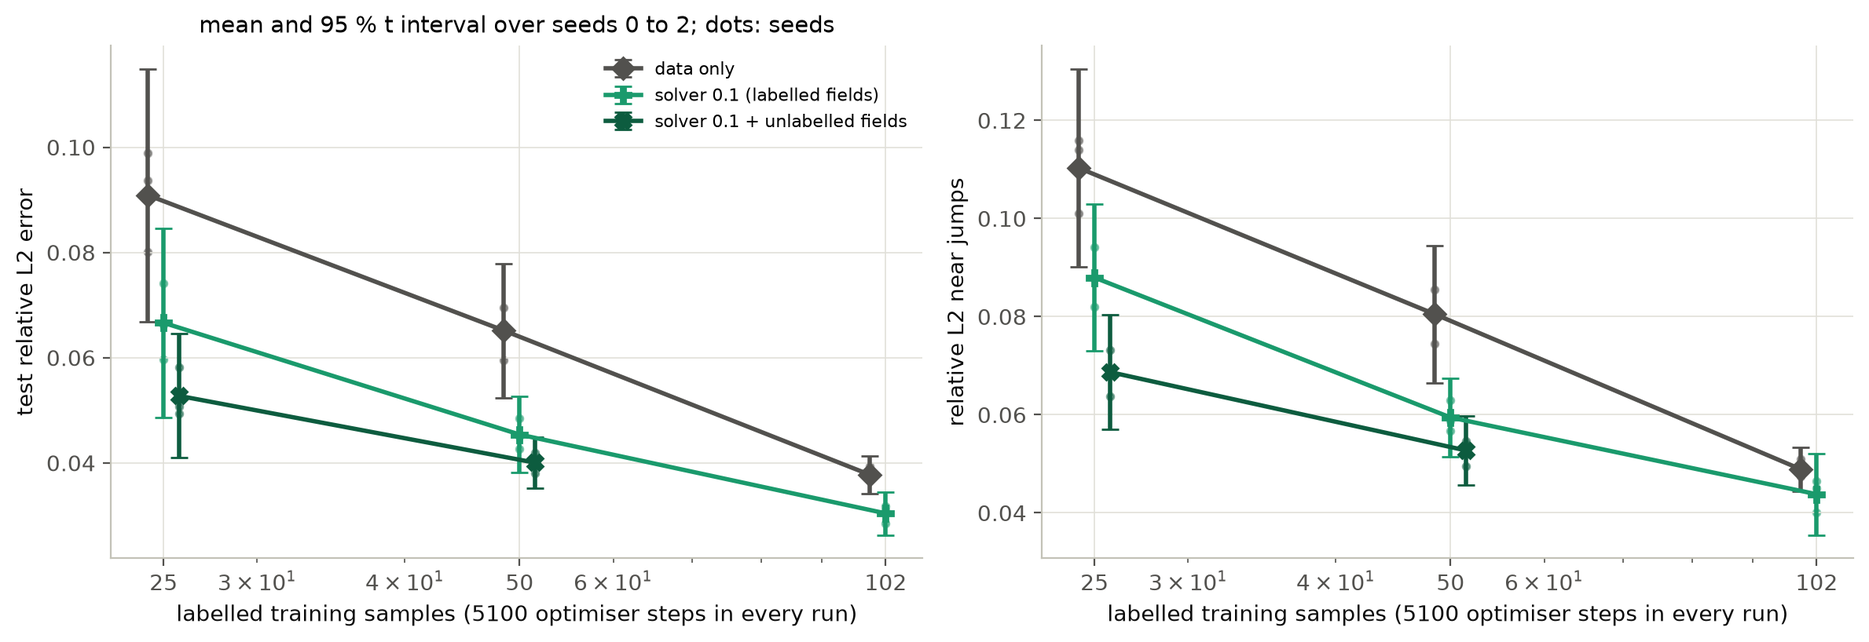
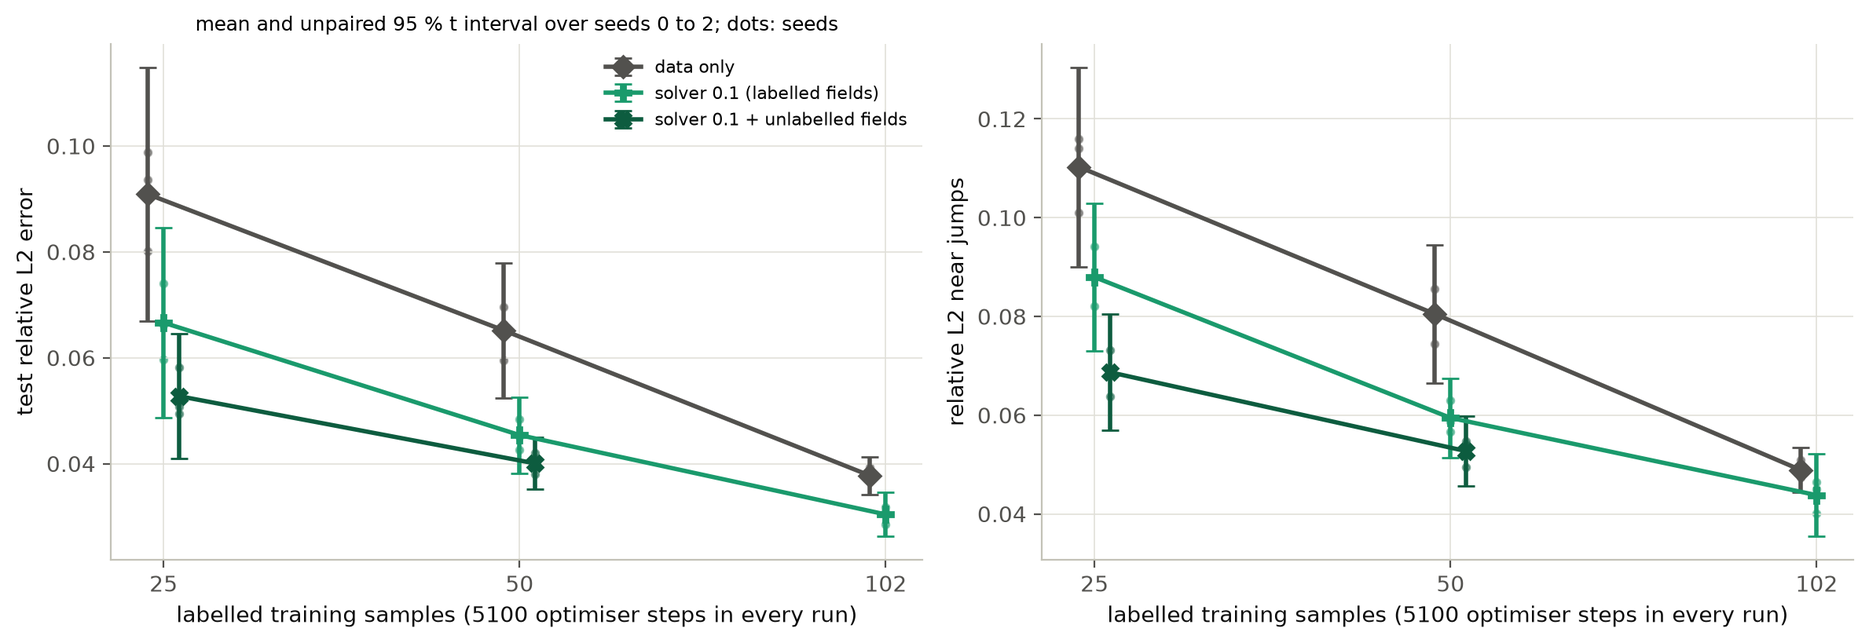
docs: G2-G6 status, checklist and audit conclusions; label figure axis
- EXPERIMENT_GAPS: G2-G6 done on MPS with exact commands and outcomes;
  CUDA replication kept as the remaining G2 gap; determinism stated
  with its actual scope (one epoch, data only and consistent 0.1).
- REPRODUCIBILITY_CHECKLIST: dated update for the 50-epoch studies
  (plans before runs, provenance, recomputed errors, leakage, 88 tests);
  open items: CUDA, bitwise repeat of full runs.
- SCIENTIFIC_AUDIT: summary rows F15-F17, software checks, changes,
  claims 6-9 and the 2026-11-07 recommendation; earlier text kept.
- plots_full: no minor tick labels on the label-budget axis.

diff --git a/scripts/plots_full.py b/scripts/plots_full.py
@@ -253,11 +253,12 @@ def plot_labels(records, out):
                 ax.scatter([x] * 3, [records[lab][s]["metrics"][key] for s in SEEDS], color=col, s=10, alpha=0.5)
     for ax, t in zip(axes, ("test relative L2 error", "relative L2 near jumps"), strict=True):
         ax.set_xscale("log")
+        ax.minorticks_off()
         ax.set_xticks(ns, [str(n) for n in ns])
         ax.set_xlabel("labelled training samples (5100 optimiser steps in every run)")
         ax.set_ylabel(t)
     axes[0].legend(fontsize=8)
-    axes[0].set_title("mean and 95 % t interval over seeds 0 to 2; dots: seeds")
+    axes[0].set_title("mean and unpaired 95 % t interval over seeds 0 to 2; dots: seeds", fontsize=9)
     _save(fig, out / "full_labels.png")
 
 

diff --git a/docs/SCIENTIFIC_AUDIT.md b/docs/SCIENTIFIC_AUDIT.md
@@ -9,7 +9,7 @@ Classification:
 - **UNVERIFIED**: not checked, or not checkable with what exists.
 - **INCORRECT**: contradicted by the evidence.
 
-Everything measured in the original audit is CPU or Apple MPS inference and NumPy/SciPy computation; no model was trained for it. The addendum F14 (same date) adds six training runs, G1 of `EXPERIMENT_GAPS.md`, and updates F6 to F9 where they bear on seeds; the seed-0 findings are kept as they were.
+Everything measured in the original audit is CPU or Apple MPS inference and NumPy/SciPy computation; no model was trained for it. The addendum F14 (same date) adds six training runs, G1 of `EXPERIMENT_GAPS.md`, and updates F6 to F9 where they bear on seeds; the seed-0 findings are kept as they were. The addenda F15 to F17 (2026-11-07) add the pre-registered studies at the upstream training budget (G2 to G6 of `EXPERIMENT_GAPS.md`, 63 training runs on Apple MPS); the earlier findings are kept as they were and are qualified there where the longer training changes them.
 
 ## Summary
 
@@ -31,6 +31,9 @@ The implementation reproduces the upstream example faithfully, the tracked numbe
 | F12 | Implementation matches upstream | VERIFIED |
 | F13 | Smaller README statements | one INCORRECT figure (corrected), others VERIFIED |
 | F14 | Seed study at weight 0.1 (G1, addendum) | residual reduction REPRODUCED; no accuracy improvement; see section |
+| F15 | At the upstream budget, `consistent` 0.1 improves the test error over data only (G2) | VERIFIED on MPS, three seeds (-21.7 %); depends on the weight; `shipped` 1 degrades; the near-jump degradation of F9 and F14 is not reproduced at 50 epochs |
+| F16 | A residual exact for the reference (`solver`) improves accuracy, and more than the cell-grid residual (G3, G4) | first part VERIFIED (-19.4 %); "more than" not supported; the coefficient-mismatch explanation of the jump degradation not testable at 50 epochs |
+| F17 | The residual helps with fewer labels and with unlabelled fields (G5, G6) | VERIFIED at 25 and 50 labels (four primary comparisons); the added value of unlabelled fields over labelled-only training supported only unadjusted at 25 labels and confounded with compute |
 
 ## F1. Forcing term
 
@@ -253,7 +256,7 @@ Seed spread (mean ± standard deviation over seeds): overall error 0.0489 ± 0.0
 
 **Design.** Pre-registered in [`FULL_BUDGET_PLAN.md`](FULL_BUDGET_PLAN.md) (committed in `eaca64c` before any run): 50 epochs of 102 steps (5100 optimiser steps, the upstream budget and per-step learning-rate schedule), batch size 1, seeds 0, 1, 2. Stage 1 (`configs/full_mps.yaml`): data only, `shipped` 0.1, `consistent` 0.1. Stage 2 (`configs/full_mps_sweep.yaml`): both residuals at 0.001, 0.01, 1. Primary comparison: overall test relative L2, `consistent` 0.1 minus data only, paired by seed, Student-t 95 % interval over seeds; everything else secondary, with Holm adjustment over the seven secondary settings.
 
-**Hardware, not CUDA.** All 27 runs trained on Apple MPS (M3 Pro, 18 GB; FNO on MPS, cell-grid residual on CPU as in every earlier study), not on the CUDA GPU the plan of `kaggle/run_cuda.ipynb` targets. A CUDA replication has not been run. MPS training is bitwise repeatable for the same seed (`results/audit/determinism.json`: two one-epoch runs per setting give identical parameters) and differs from CPU at about 1e-2 in the parameters after one epoch.
+**Hardware, not CUDA.** All 27 runs trained on Apple MPS (M3 Pro, 18 GB; FNO on MPS, cell-grid residual on CPU as in every earlier study), not on the CUDA GPU the plan of `kaggle/run_cuda.ipynb` targets. A CUDA replication has not been run. MPS training is bitwise repeatable for the same seed (`results/audit/determinism.json`: two one-epoch runs of data only and of `consistent` 0.1 give identical parameters) and differs from CPU by up to 0.008 and 0.03 in the parameters after one epoch (maximum absolute difference).
 
 **Provenance.** Trained from a clean git worktree at `eaca64c`. `study_metadata.json` of both studies records `git_dirty: true`; the only changes in that worktree were untracked audit outputs written by the same queue (`results/audit/determinism.json` and the stage-1 audit files), and `git diff HEAD` there is empty. The first execution session ended while stage 2 was running: 15 of 18 runs had finished with records; the run in progress (`consistent_w0.001_seed2`) left an empty directory and was retrained from scratch with `scripts/train.py --resume`, which skips runs that have `train_metrics.json`. Every run has its configuration, seed, 5100 steps, a 50-epoch history, the final checkpoint (not tracked) and test metrics; `scripts/full_study.py` asserts that the stored test error equals the error recomputed from the checkpoint by `scripts/evaluate_solver_residual.py` to 1e-5 relative, for every run.
 
@@ -352,6 +355,7 @@ All four primary comparisons are improvements, lower in every seed; near jumps t
 - `python -m pytest -q`: 48 passed (41 existing, 7 new), offline and on CPU. After the addendum: 59 passed (accelerator lock, paired statistics, and the agreement of `results/audit/seed_study.json` with the per-run records).
 - `ruff check --select E,F,W`: clean. `--select B` adds nine `B905` (`zip` without `strict=`), stylistic only.
 - No implementation error that changes a tracked number was found.
+- Addenda F15 to F17 (2026-11-07): `python -m pytest -q` 88 passed (offline, CPU, about 15 s); `ruff check src scripts tests` clean. For every one of the 63 runs at the upstream budget, the test error stored at training equals the error recomputed from the checkpoint to 1e-5 relative (asserted by `scripts/full_study.py`). The torch `solver` residual equals its NumPy reference in float64 on real fields and passes a directional-derivative check (`results/audit/solver_operator_check.json`).
 
 ## Changes made in the audit
 
@@ -362,6 +366,7 @@ All four primary comparisons are improvements, lower in every seed; near jumps t
 - README: the corrected ratio (F13), the coefficient finding (F3, F4), test count, links to these documents.
 - Not changed: `results/local/`, `results/data_check.json`, `figures/`, training and evaluation code.
 - Addendum (F14): `src/pino_darcy/gpulock.py` and its use in `scripts/train.py`, `scripts/evaluate.py`, `scripts/evaluate_solver_residual.py` (a machine-wide accelerator lock; no change to training or evaluation); `metrics.paired_seed_interval`, `metrics.paired_bootstrap`; `scripts/seed_study.py`; new results `results/local_seeds/`, `results/audit/local_seeds_solver_residual.json`, `results/audit/seed_study.json`, `figures/seed_study.png`; tests `tests/test_gpulock.py`, `tests/test_seed_study.py`. Existing results and figures unchanged.
+- Addenda F15 to F17: analysis plans `docs/FULL_BUDGET_PLAN.md` and `docs/OPERATOR_AND_LABELS_PLAN.md`, committed before their runs; configurations `configs/full_mps*.yaml`, `configs/labels*.yaml`; the residual formulations of G3 and G4 (`src/pino_darcy/discrete.py`, `physics.py`) and the unlabelled pool of G5 (`engine.py`), with tests; `scripts/evaluate_generalisation.py`, `scripts/full_study.py`, `scripts/plots_full.py`, `scripts/check_solver_operator.py`, `scripts/check_determinism.py`; new results `results/full_mps*/`, `results/labels*/`, `results/audit/full_*.json`, `results/audit/*_generalisation.json`, `results/audit/solver_operator_check.json`, `results/audit/determinism.json`, `figures/full_*.png`. Existing results and figures unchanged.
 
 ## Claims the evidence supports
 
@@ -373,8 +378,19 @@ Safe to state, with the qualifiers given:
 4. At weight 0.1 and 15 epochs, over three training seeds: both residual definitions lower the PDE residual in every seed, under the training residual and under the exact operator of the data generator; the corrected residual has no detectable effect on the test error (-0.0004, 95 % interval over seeds -0.0070 to +0.0061); the shipped residual raised the error in every seed (+8 % on average, interval just including zero).
 5. A lower finite-difference residual did not imply closer agreement with the reference; near permeability jumps the weighted models had a higher error in every seed.
 
-Not supported: that physics weighting improves accuracy; that any result holds at the upstream budget, or across seeds at weights other than 0.1; that the corrected residual is exact at jumps; any statement about the DeepONet variant or about data-scarce regimes.
+Not supported on 2026-10-24: that physics weighting improves accuracy; that any result holds at the upstream budget, or across seeds at weights other than 0.1; that the corrected residual is exact at jumps; any statement about the DeepONet variant or about data-scarce regimes.
+
+Added on 2026-11-07 (F15 to F17; upstream budget of 5100 optimiser steps, Apple MPS, three seeds, 95 % t intervals over seeds):
+
+6. Training with the corrected residual at weight 0.1 lowers the test error over data-only training by about a fifth (-21.7 % [-27.1, -16.3]), in every seed; at weight 0.01 by -11.5 %; at weight 1 no change is detectable. The shipped residual at weight 1 more than doubles the error.
+7. A residual that the reference solution satisfies exactly (the generator's own discrete operator and coefficient) gives a similar improvement (-19.4 %), not a larger one than the cell-grid residual; all four residual formulations tested improve the error by 18 % to 22 %.
+8. With 25 and 50 labelled samples the residual lowers the error by 27 % and 30 %, and with the remaining training permeabilities as unlabelled inputs by 42 % and 39 %; the residual does not make up for the missing labels (50 labels with the residual remain less accurate than 102 without).
+9. The 15-epoch accuracy findings (3 to 5 above) do not hold at the upstream budget: the improvement appears only with longer training, and the near-jump degradation disappears.
+
+Still not supported: any result on CUDA or on other datasets, architectures or optimiser settings; that the improvement is specific to the PDE residual rather than to regularisation in general (no other regulariser was compared); that unlabelled fields help beyond their extra compute.
 
 ## Recommendation
 
 The project is scientifically defensible as a careful reproduction-and-diagnosis study of one upstream example, and its tracked results are reproducible from its records. It is not evidence for a performance claim. G1 has been run (F14): the residual finding is reproducible over seeds, an accuracy gain is not supported, and three seeds leave intervals of about ±14 % on the error. Next, in order: more seeds at weight 0.1 if a sharper accuracy statement is wanted (about 3 minutes per run locally under light load), G2 for the upstream budget, and G3 and G4, which test the coefficient and operator mismatch identified here and the jump-region degradation that F14 reproduces.
+
+Update 2026-11-07. G2 to G6 have been run at the upstream budget (F15 to F17). They change the answer to the accuracy question: with enough training, the corrected residual, and the exact one, improve the test error over data-only training by about a fifth with 102 labels and by more with fewer labels, provided the weight is moderate (0.01 to 0.1). The project now supports this conditional performance claim for this example on MPS. Next, in order: a CUDA replication of the primary comparisons, controls with other regularisers and per-setting learning rates, and other datasets.

diff --git a/docs/EXPERIMENT_GAPS.md b/docs/EXPERIMENT_GAPS.md
@@ -1,15 +1,15 @@
 # Experiment gaps
 
-Experiments and controls that the current evidence does not cover, in order of scientific value per unit of compute. G1 has been run (2026-10-24); the others have not. Every command below is exact and runs from the repository root with the project environment (`.venv`, `requirements.lock`). Runtime estimates are projections from the measured cost of the reduced study on an Apple M3 Pro (171 ms per optimiser step without the PDE term, 217 to 238 ms with it; 102 steps per epoch) and are not measurements.
+Experiments and controls that the current evidence does not cover, in order of scientific value per unit of compute. G1 was run on 2026-10-24; G2 to G6 were run on Apple MPS on 2026-11-06 and 2026-11-07 (section "G2 to G6: executed on MPS" below); a CUDA replication of G2 and G7 have not been run. Every command below is exact and runs from the repository root with the project environment (`.venv`, `requirements.lock`). Runtime estimates are projections from the measured cost of the reduced study on an Apple M3 Pro (171 ms per optimiser step without the PDE term, 217 to 238 ms with it; 102 steps per epoch) and are not measurements.
 
 | ID | Gap | Why it matters | Cost | Status |
 |---|---|---|---|---|
 | G1 | Training seeds | All conclusions rested on seed 0. The accuracy differences between data-only and `consistent` at weights up to 0.1 (at most 0.0005) were below the unmeasured seed-to-seed spread. | 6 runs; measured 17.7 min training on MPS | DONE: `SCIENTIFIC_AUDIT.md` F14 |
-| G2 | Upstream training budget | Validation error is still falling at epoch 15 in 8 of 9 runs. Rankings of non-converged models may change. | 27 runs of 5100 steps; about 8.4 h MPS (too long locally); CUDA time unknown, projected by the notebook from a one-epoch probe before anything starts | PENDING (CUDA) |
-| G3 | Residual coefficient `coeff` instead of `Kcoeff` | The residual uses the smoothed model input, not the coefficient the data were generated with (audit F4). The bias it introduces (1.7 % mean relative L2 between the two solutions) is of the order of the effects being measured. | 4 runs, about 30 min MPS, after a code change | NOT IMPLEMENTED |
-| G4 | Training with the solver-consistent residual | `pino_darcy.reference.solver_residual` is zero for the reference everywhere, including at jumps. Training with it would separate "physics helps" from "the discrete operator is wrong at jumps". Needs a differentiable torch port and a treatment of the cropped edge (extension plus margin, validated in `results/audit/reference_check.json`). | implementation plus about 8 runs | NOT IMPLEMENTED |
-| G5 | Residual on unlabelled inputs | Here the residual is evaluated only on the 102 labelled training samples, where the data term already constrains the output. The regime in which PINO-type losses are expected to help (extra permeability fields without pressure, or fewer labels) is not tested. | design decision; at least 10 runs | NOT DESIGNED |
-| G6 | Training-set size | Physics weighting at 102 samples only. A sweep over 25, 50, 102 samples would show whether the effect depends on data scarcity. | 3 sizes x 3 settings x 3 seeds | NOT DESIGNED |
+| G2 | Upstream training budget | Validation error is still falling at epoch 15 in 8 of 9 runs. Rankings of non-converged models may change. | 27 runs of 5100 steps; about 8.4 h MPS (too long locally); CUDA time unknown, projected by the notebook from a one-epoch probe before anything starts | DONE on MPS (`SCIENTIFIC_AUDIT.md` F15); CUDA replication not run |
+| G3 | Residual coefficient `coeff` instead of `Kcoeff` | The residual uses the smoothed model input, not the coefficient the data were generated with (audit F4). The bias it introduces (1.7 % mean relative L2 between the two solutions) is of the order of the effects being measured. | implemented (`beaac7f`); 3 runs at the G2 budget | DONE on MPS: F16 |
+| G4 | Training with the solver-consistent residual | `pino_darcy.reference.solver_residual` is zero for the reference everywhere, including at jumps. Training with it would separate "physics helps" from "the discrete operator is wrong at jumps". Needs a differentiable torch port and a treatment of the cropped edge (extension plus margin, validated in `results/audit/reference_check.json`). | implemented (`beaac7f`); 9 runs (incl. `solver_kcoeff`, weight 1) | DONE on MPS: F16 |
+| G5 | Residual on unlabelled inputs | Here the residual is evaluated only on the 102 labelled training samples, where the data term already constrains the output. The regime in which PINO-type losses are expected to help (extra permeability fields without pressure, or fewer labels) is not tested. | designed in `OPERATOR_AND_LABELS_PLAN.md`; 6 runs | DONE on MPS: F17 |
+| G6 | Training-set size | Physics weighting at 102 samples only. A sweep over 25, 50, 102 samples would show whether the effect depends on data scarcity. | 2 new sizes x 2 settings x 3 seeds (102 from G2/G4) | DONE on MPS: F17 |
 | G7 | DeepONet variant with automatic differentiation | Out of scope; listed for completeness. | not estimated | OUT OF SCOPE |
 
 ## G1: training seeds (done)
@@ -35,7 +35,37 @@ python scripts/train.py --config local name=local_seeds_more "study.seeds=[3,4,5
 
 (not run; `scripts/seed_study.py` reads seeds 0 to 2 and would need its `SEEDS` and `STUDIES` extended).
 
-## G2: upstream budget on CUDA
+## G2 to G6: executed on MPS
+
+Pre-registered in [`FULL_BUDGET_PLAN.md`](FULL_BUDGET_PLAN.md) (G2, commit `eaca64c`) and [`OPERATOR_AND_LABELS_PLAN.md`](OPERATOR_AND_LABELS_PLAN.md) (G3 to G6, commit `beaac7f`), each committed before its runs. All runs: 5100 optimiser steps (the upstream budget), seeds 0 to 2, Apple M3 Pro MPS, each study trained from a git worktree at the plan's commit. A machine-wide GPU lock (`~/.cache/physicsnemo/gpu.lock`) serialised them with other projects' jobs. Commands, from the repository root:
+
+```bash
+python scripts/train.py --config full_mps                 # G2 stage 1, 9 runs
+python scripts/train.py --config full_mps_sweep           # G2 stage 2, 18 runs
+python scripts/train.py --config full_mps name=full_mps_more "study.seeds=[3,4]"   # G2 stage 3, 6 runs
+python scripts/train.py --config full_mps_operator        # G3, G4, 9 runs
+python scripts/train.py --config full_mps_solver_w1       # G4 at weight 1, 3 runs
+python scripts/train.py --config labels25                 # G6, 6 runs; likewise labels50
+python scripts/train.py --config labels25_unlabelled      # G5, 3 runs; likewise labels50_unlabelled
+# after each study (same --config and overrides):
+python scripts/evaluate_solver_residual.py --config <config>
+python scripts/evaluate_generalisation.py --config <config>
+python scripts/results.py publish runs/<study>
+python scripts/full_study.py                              # all statistics and figures/full_*.png
+```
+
+Outcome (95 % t intervals over seeds, paired by seed; details and caveats in the audit):
+
+- G2 (F15): `consistent` 0.1 minus data only -21.7 % [-27.1, -16.3], every seed (primary). Weight 1 inconclusive; `shipped` 1 +142 %. The near-jump degradation seen at 15 epochs does not occur. Stage 3 (seeds 3 and 4) was triggered by the pre-registered stopping rule; its n = 5 result: PENDING at the time of writing.
+- G3, G4 (F16): `solver` 0.1 minus data only -19.4 % [-26.8, -12.0] (primary). All four residual variants improve by 18 to 22 %; the exact operator is not better than the cell-grid one; `coeff` is slightly worse than `Kcoeff`; `solver` 1 inconclusive.
+- G5, G6 (F17): with 25 and 50 labels, `solver` 0.1 improves by 27 % and 30 %, and with the unlabelled fields by 42 % and 39 % (four primary comparisons, Holm, every seed). The unlabelled runs use about twice the compute per step.
+
+Remaining gaps after G2 to G6: the CUDA replication below; tuning parity (all settings use the upstream learning rate and schedule); controls with other regularisers (early stopping, weight decay), which would test the regularisation reading of F15; and other datasets and architectures.
+
+## G2 replication on CUDA (not run)
+
+The plan for G2 targeted CUDA; G2 was run on MPS instead. The CUDA notebook remains available for a replication:
+
 
 Use `kaggle/run_cuda.ipynb`:
 
@@ -51,7 +81,7 @@ Peak memory is unmeasured on CUDA; the FNO at 240 x 240 with batch size 1 is sma
 ## Missing controls inside the existing design
 
 - **Paired statistics.** The README reports the per-sample standard deviation; paired differences over the shared test samples are more informative and are given in the audit (F6). They still measure test-sample variability only.
-- **Region-resolved error.** The summary reports residuals by region but not the error by region. `results/audit/local_solver_residual.json` adds it for the reduced study.
+- **Region-resolved error.** The summary reports residuals by region but not the error by region. `results/audit/local_solver_residual.json` adds it for the reduced study; the 50-epoch studies report it in `results/audit/full_study.json` (done).
 - **Tuning parity.** Learning rate and schedule are the upstream values for all weights. A physics weight that changes the loss scale by a factor of 2 to 3 (weight 1) may prefer a different learning rate; the comparison is at fixed hyperparameters, which should be stated as such.
-- **Seed variability at other weights.** Only weight 0.1 has more than one seed.
-- **Bitwise reproducibility on MPS.** Seeds are set, but MPS kernels are not guaranteed deterministic; re-running a run and comparing histories has not been done.
+- **Seed variability at other weights.** At 15 epochs only weight 0.1 has more than one seed; at 50 epochs every weight has three seeds (`full_mps_sweep`, done).
+- **Bitwise reproducibility on MPS.** Seeds are set, but MPS kernels are not guaranteed deterministic. Checked on 2026-11-06 (`results/audit/determinism.json`): for data only and `consistent` 0.1, two one-epoch runs with the same seed gave identical parameters on this machine and software; MPS and CPU parameters differ by up to 0.008 and 0.03 (maximum absolute difference). Not checked for the `solver` residual, for the unlabelled pool, for full-length runs, or across machines and software versions.

diff --git a/docs/REPRODUCIBILITY_CHECKLIST.md b/docs/REPRODUCIBILITY_CHECKLIST.md
@@ -1,6 +1,6 @@
 # Reproducibility and verification checklist
 
-State on 2026-10-24, audit of the repository at the commit that adds this file. `[x]` checked in the audit, with the evidence named; `[ ]` not done.
+State on 2026-10-24, audit of the repository at the commit that adds this file. `[x]` checked in the audit, with the evidence named; `[ ]` not done. Items checked later carry their date; the section "Update 2026-11-07" covers the 50-epoch studies (G2 to G6).
 
 ## Code and environment
 
@@ -28,11 +28,24 @@ State on 2026-10-24, audit of the repository at the commit that adds this file. 
 - [x] `summary.csv` and `summary.json` recomputed from `eval_metrics.json`, `train_metrics.json` and `history.csv` of every run: agreement to 1e-6 relative, except the median, which is the lower median by construction (`metrics.summarise`).
 - [x] Every number in the README results tables traced to the result files.
 - [x] Checkpoints of the reduced study re-evaluated: test relative L2 reproduced (`results/audit/local_solver_residual.json`, `stored_rel_l2_mean` against `rel_l2_mean`).
-- [ ] Re-training a run and comparing histories (bitwise or to tolerance) on MPS.
-- [x] More than one training seed at weight 0.1: seeds 0, 1, 2 (`docs/EXPERIMENT_GAPS.md`, G1; `docs/SCIENTIFIC_AUDIT.md`, F14). Other weights: one seed.
-- [ ] The 50-epoch study (`configs/full.yaml`, G2).
+- [x] Re-training a run and comparing histories (bitwise or to tolerance) on MPS. (2026-11-06: one-epoch repeats of data only and `consistent` 0.1 give identical parameters on this machine, `results/audit/determinism.json`; full-length runs and other residuals not repeated.)
+- [x] More than one training seed at weight 0.1: seeds 0, 1, 2 (`docs/EXPERIMENT_GAPS.md`, G1; `docs/SCIENTIFIC_AUDIT.md`, F14). Other weights: one seed at 15 epochs; three seeds at every weight at 50 epochs (2026-11-07, `full_mps_sweep`).
+- [x] The 50-epoch study (G2). (2026-11-07: on MPS with `configs/full_mps.yaml` and `full_mps_sweep.yaml`, audit F15; the CUDA configuration `configs/full.yaml` has not been run.)
 
 ## Provenance of the audit files
 
 - [x] Historical artifacts (`results/local/`, `results/data_check.json`, `figures/`) unchanged by the audit.
 - [x] New results are in `results/audit/` and were written from a committed, clean tree (see their `environment.git_commit` and `git_dirty`).
+
+## Update 2026-11-07: the 50-epoch studies (G2 to G6)
+
+- [x] Analysis plans committed before any of their runs: `docs/FULL_BUDGET_PLAN.md` (`eaca64c`), `docs/OPERATOR_AND_LABELS_PLAN.md` (`beaac7f`).
+- [x] Every study trained from a git worktree at its plan's commit. `full_mps` and `full_mps_operator` record `git_dirty: false`; the other studies record `git_dirty: true` caused only by untracked audit outputs of the same queue in the worktree (`git diff HEAD` empty there).
+- [x] Every run complete: configuration, seed, 5100 optimiser steps, full history, checkpoint (not tracked), test metrics. One run (`full_mps_sweep/consistent_w0.001_seed2`) was interrupted by the end of a session before writing any record and was retrained from scratch.
+- [x] Stored test errors equal the errors recomputed from the checkpoints by `scripts/evaluate_solver_residual.py`, to 1e-5 relative, for every run (asserted in `scripts/full_study.py`).
+- [x] Torch `solver` residual equals the NumPy re-implementation of the generator's solver in float64 on real fields; gradient checked against central differences (`results/audit/solver_operator_check.json`).
+- [x] G5 unlabelled pool: training-split samples only, permeability only (`src/pino_darcy/engine.py`, `tests/test_config.py`, `tests/test_operator_training.py`).
+- [x] `python -m pytest -q`: 88 passed, offline, CPU. `ruff check src scripts tests`: no findings.
+- [x] Historical records (`results/local/`, `results/local_seeds/`, earlier figures and audit files) unchanged (`git diff` against the earlier commits is empty for them).
+- [ ] Training on CUDA (the hardware the G2 plan targeted); all 50-epoch runs used Apple MPS.
+- [ ] Bitwise repeat of full-length runs, or of the `solver` and unlabelled-pool code paths.
